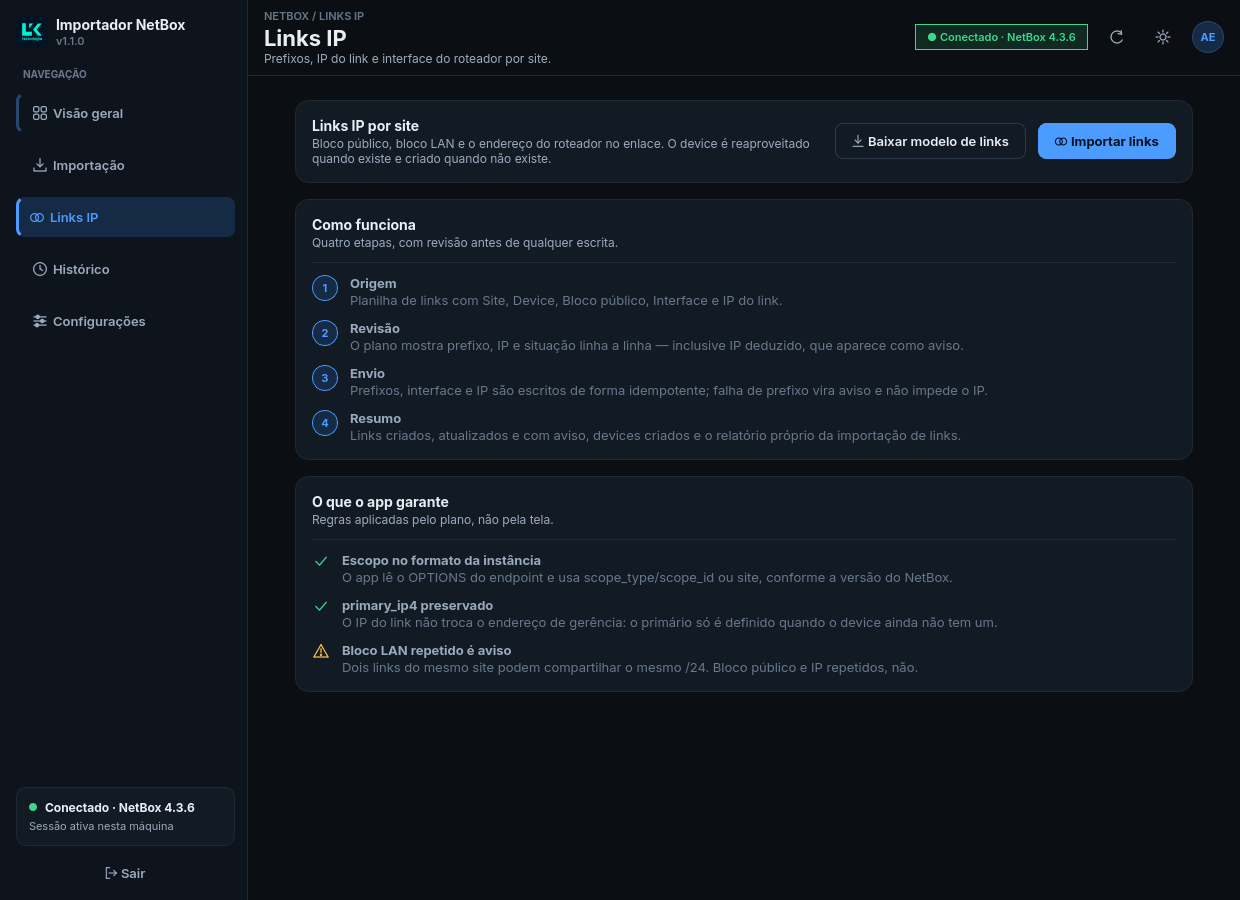
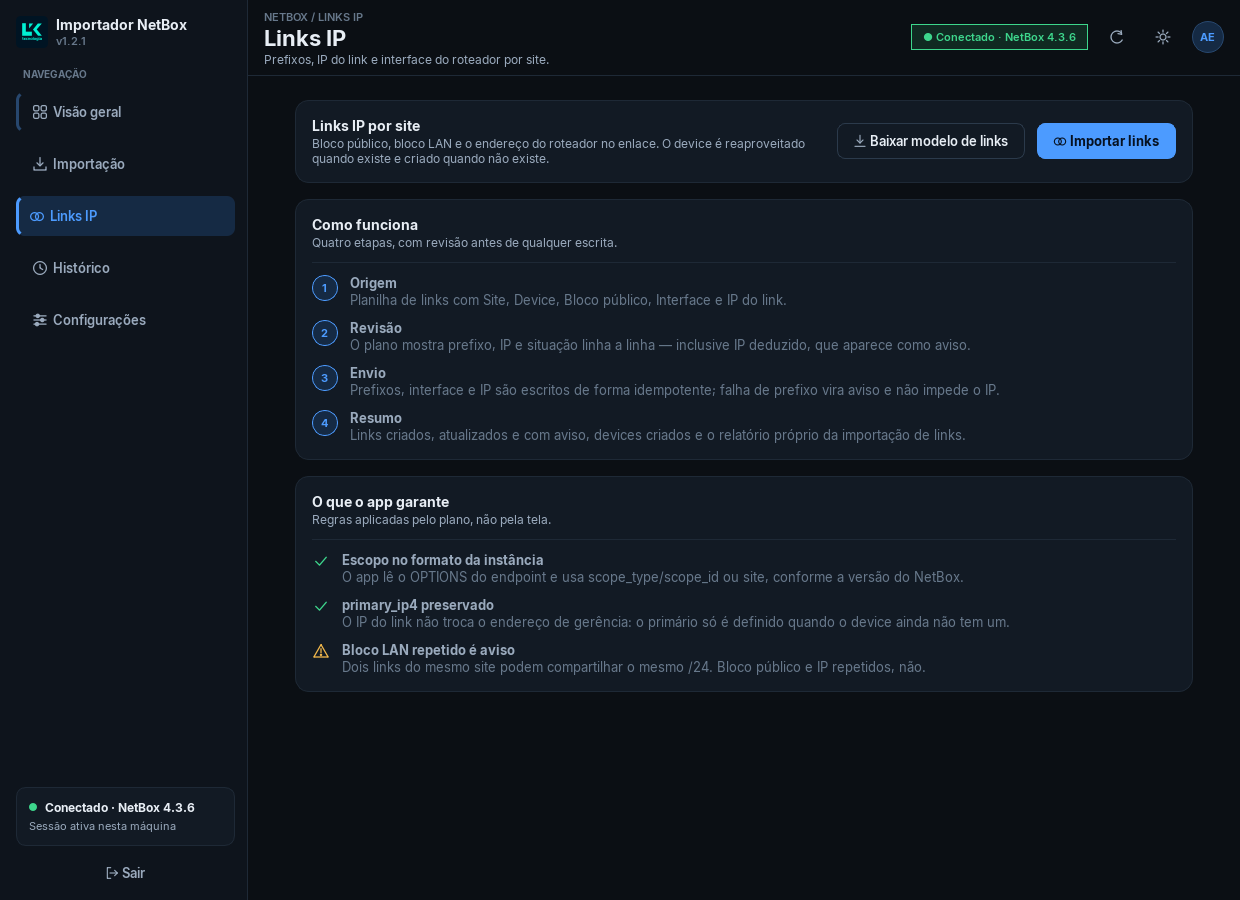
Publica a 1.2.1
Atualiza a versao nos tres arquivos (app/version.py, instalador.iss,
version_info.txt), registra as correcoes no CHANGELOG e regera as capturas do
README com a versao nova.

diff --git a/app/version.py b/app/version.py
@@ -7,4 +7,4 @@
     Formato: so numeros e pontos (MAJOR.MINOR.PATCH).
     """
 
-__version__ = "1.2.0"
+__version__ = "1.2.1"

diff --git a/CHANGELOG.md b/CHANGELOG.md
@@ -4,6 +4,21 @@ Todas as mudanças notáveis deste projeto serão documentadas neste arquivo.
 
 O formato segue o [Keep a Changelog](https://keepachangelog.com/pt-BR/1.1.0/) e o [versionamento semântico](https://semver.org/lang/pt-BR/). A versão do aplicativo vive em três arquivos mantidos em sincronia: `app/version.py` (lido pelo Python), `instalador.iss` (lido pelo Inno Setup) e `version_info.txt` (lido pelo Windows). O teste `tests/test_version.py` falha se algum deles divergir dos outros dois.
 
+## [1.2.1] - 2026-11-24
+
+### Corrigido
+
+- **Listas suspensas do modelo não apareciam no Google Sheets.** A validação era gravada como `=Listas!$A$2:$A$…`, com `=` na frente. O Excel aceita e conserta ao salvar, mas o Google Sheets não interpreta essa forma e rebaixa a célula a texto livre — Site, Papel (role) e, no modelo de links, Device ficavam sem menu. A fórmula agora vai sem o `=`, no formato que os dois programas leem. Planilhas já importadas no Sheets precisam ser geradas de novo.
+- **Ícones cortados em telas com escala do Windows acima de 100%.** O desenho era ampliado duas vezes (o `devicePixelRatio` era aplicado no pixmap e de novo na escala do `QPainter`), então o ícone era cortado na borda e sobrava um fragmento que parecia uma vírgula antes do texto na barra lateral e nos botões.
+- **Campo do servidor com as duas linhas sobrepostas na tela de login.** Rótulo e URL viraram um único texto de duas linhas, com altura mínima fixa, em vez de duas `QLabel` empilhadas que dependiam da métrica da fonte.
+- **Janela abrindo maior que a área útil da tela.** Em notebook com escala de 150%, o tamanho fixo de 1280×880 deixava a barra de título acima do topo do desktop, sem como arrastar, minimizar ou fechar. A janela agora se limita à área útil, centraliza e reduz o tamanho mínimo quando a tela é menor.
+- **`(s)` vazando na interface.** Textos como `4 pronto(s)`, `2 referência(s) a criar` e `1 linha(s) ainda bloqueada(s)` passaram a concordar em número (`app/text.py`, `plural()`). O mesmo vale para o resumo, o diálogo de links e o histórico (`1 criado · 2 erros`).
+- Mensagens de validação de planilha sem o `(s)`: "Coluna obrigatoria ausente" / "Colunas obrigatorias ausentes" e "Nome duplicado na linha:" / "nas linhas:".
+
+### Removido
+
+- Código morto sem nenhuma referência: aliases de cor legados do `theme.py` (`TEXT`, `CARD`, `ERROR`…), `build_dark_palette`, `current_mode`, `can_store`, `site_tenants`, `writable_optional_columns`, `CONTENT_MAX_WIDTH` e os componentes `EmptyState`, `field_label` e `spacer`.
+
 ## [1.2.0] - 2026-11-03
 
 ### Alterado
